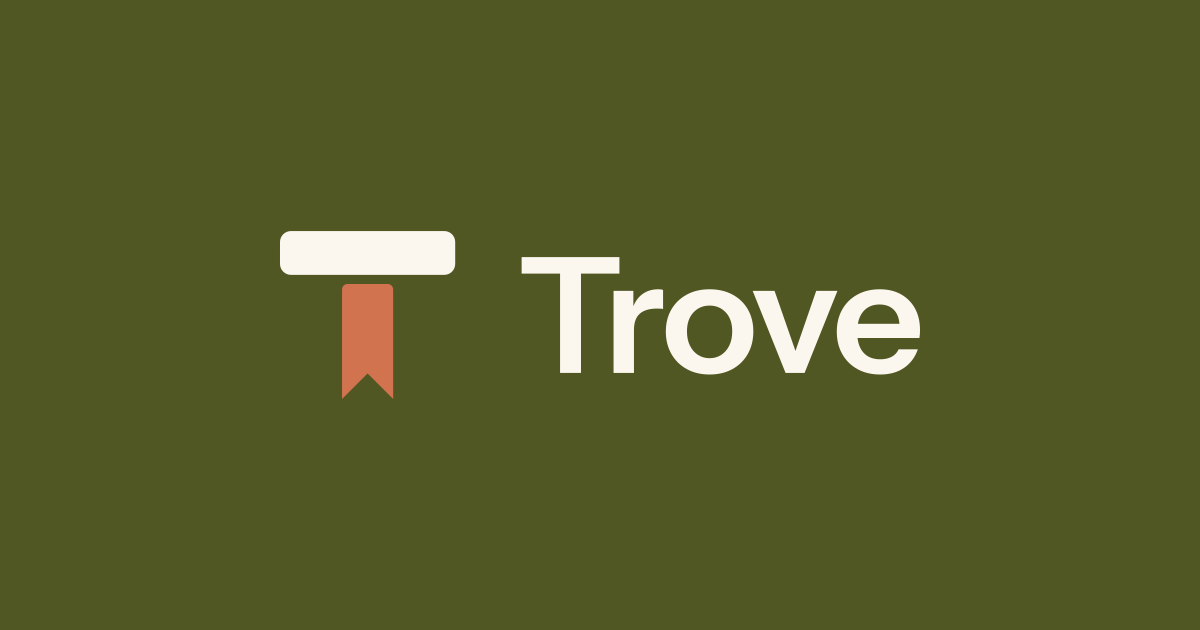
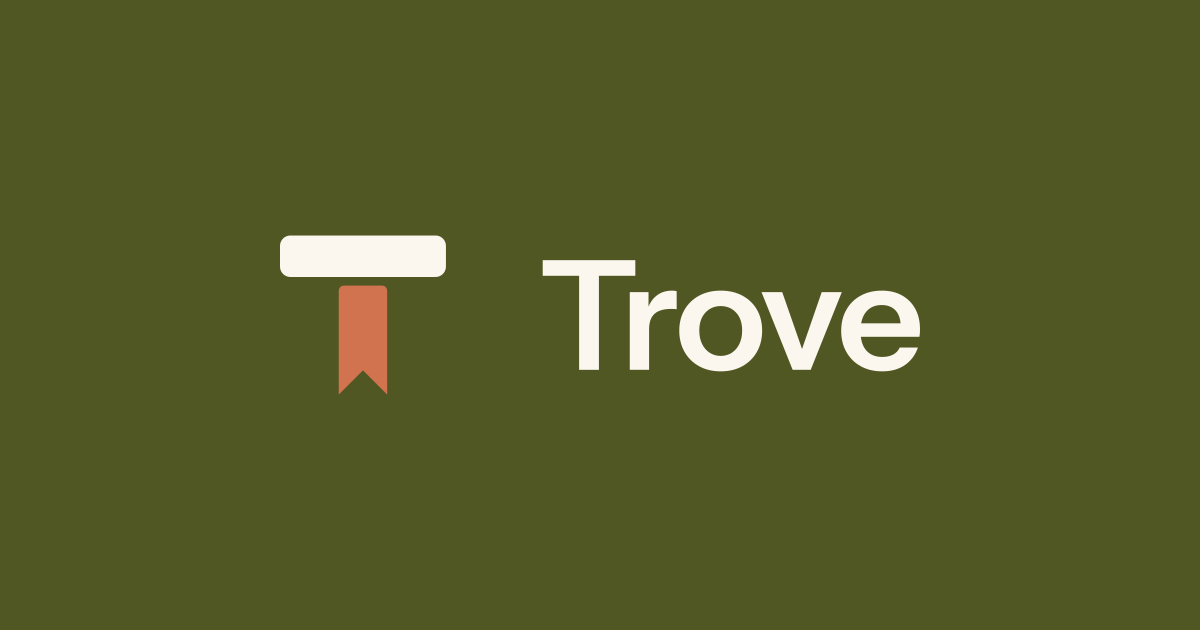
fix: layout polish

Changed region(s): [[0.4317, 0.3921, 0.7708, 0.6032], [0.2158, 0.3619, 0.4008, 0.6333]]

diff --git a/apps/web/components/home/home-front-door.tsx b/apps/web/components/home/home-front-door.tsx
@@ -3,6 +3,7 @@
 import { Plus } from 'lucide-react';
 import Link from 'next/link';
 import { useTranslations } from 'next-intl';
+import { useEffect, useState, type ReactNode } from 'react';
 
 import { Button } from '@/components/ui/button';
 import { Skeleton } from '@/components/ui/skeleton';
@@ -29,10 +30,50 @@ export const HOME_COVER_FRAME =
 /**
  * Everything beneath the cover: a sheet in the page's own colour, as wide as
  * the cover, whose rounded top edge overlaps the photograph. Its padding puts
- * the content back on the page's own measure.
+ * the content back on the page's own measure. The curve squares off as the
+ * traveller scrolls the sheet up, as the trip's navigation sheet does when it
+ * pins, and returns when they scroll back to the cover.
  */
 export const HOME_SHEET =
-  'relative z-10 mx-[calc(50%-50vw)] -mt-7 space-y-10 rounded-t-[1.75rem] bg-background px-[calc(50vw-50%)] pt-6 motion-safe:animate-in motion-safe:duration-700 motion-safe:ease-[var(--ease-standard)] motion-safe:slide-in-from-bottom-6 sm:space-y-12 md:-mt-10 md:rounded-t-[2.5rem] md:pt-10';
+  'relative z-10 mx-[calc(50%-50vw)] -mt-7 space-y-10 rounded-t-[1.75rem] bg-background px-[calc(50vw-50%)] pt-6 transition-[border-radius] duration-[var(--motion-slow)] ease-[var(--ease-standard)] data-flat:rounded-t-none motion-safe:animate-in motion-safe:duration-700 motion-safe:ease-[var(--ease-standard)] motion-safe:slide-in-from-bottom-6 motion-reduce:transition-none sm:space-y-12 md:-mt-10 md:rounded-t-[2.5rem] md:pt-10 md:data-flat:rounded-t-none';
+
+/**
+ * Whether the traveller has scrolled the sheet up into the top half of the
+ * screen. Not "until it touches the top": on a tall screen with a short Home
+ * the page ends before the sheet could get there. Read on scroll directly: one
+ * rect read per event, no frame loop to stall.
+ */
+function useRisen(element: HTMLElement | null) {
+  const [risen, setRisen] = useState(false);
+  useEffect(() => {
+    if (!element) return;
+    const update = () => setRisen(element.getBoundingClientRect().top <= window.innerHeight / 2);
+    update();
+    window.addEventListener('scroll', update, { passive: true });
+    window.addEventListener('resize', update);
+    return () => {
+      window.removeEventListener('scroll', update);
+      window.removeEventListener('resize', update);
+    };
+  }, [element]);
+  return risen;
+}
+
+export function HomeSheet({ children }: Readonly<{ children: ReactNode }>) {
+  const [element, setElement] = useState<HTMLDivElement | null>(null);
+  const flat = useRisen(element);
+
+  return (
+    <div
+      className={HOME_SHEET}
+      data-flat={flat || undefined}
+      data-slot="home-sheet"
+      ref={setElement}
+    >
+      {children}
+    </div>
+  );
+}
 
 /**
  * The page's heading, in Home's own voice and set on the cover: a quiet line

diff --git a/apps/web/components/ui/alert-dialog.tsx b/apps/web/components/ui/alert-dialog.tsx
@@ -24,7 +24,7 @@ function AlertDialogOverlay({ className, ...props }: AlertDialogPrimitive.Backdr
     <AlertDialogPrimitive.Backdrop
       data-slot="alert-dialog-overlay"
       className={cn(
-        'fixed inset-0 isolate z-[var(--layer-overlay)] bg-foreground/20 duration-[var(--motion-standard)] supports-backdrop-filter:backdrop-blur-xs data-open:animate-in data-open:fade-in-0 data-closed:animate-out data-closed:fade-out-0 dark:bg-surface-sunken/70',
+        'fixed inset-0 isolate z-[var(--layer-overlay)] bg-foreground/20 duration-[var(--motion-standard)] supports-backdrop-filter:backdrop-blur-xs data-open:animate-in data-open:fade-in-0 data-closed:animate-out data-closed:fill-mode-forwards data-closed:fade-out-0 dark:bg-surface-sunken/70',
         className,
       )}
       {...props}
@@ -46,7 +46,7 @@ function AlertDialogContent({
         data-slot="alert-dialog-content"
         data-size={size}
         className={cn(
-          'group/alert-dialog-content fixed top-1/2 left-1/2 z-[var(--layer-overlay)] grid max-h-[calc(100dvh-2rem-var(--safe-top)-var(--safe-bottom))] w-full max-w-[calc(100%-2rem-var(--safe-left)-var(--safe-right))] -translate-x-1/2 -translate-y-1/2 gap-5 overflow-y-auto rounded-[var(--radius-xl)] border border-border bg-popover p-5 text-popover-foreground shadow-[var(--shadow-overlay)] duration-[var(--motion-standard)] outline-none data-[size=default]:sm:max-w-md data-[size=sm]:sm:max-w-sm data-open:animate-in data-open:fade-in-0 data-open:zoom-in-95 data-closed:animate-out data-closed:fade-out-0 data-closed:zoom-out-95 sm:p-6',
+          'group/alert-dialog-content fixed top-1/2 left-1/2 z-[var(--layer-overlay)] grid max-h-[calc(100dvh-2rem-var(--safe-top)-var(--safe-bottom))] w-full max-w-[calc(100%-2rem-var(--safe-left)-var(--safe-right))] -translate-x-1/2 -translate-y-1/2 gap-5 overflow-y-auto rounded-[var(--radius-xl)] border border-border bg-popover p-5 text-popover-foreground shadow-[var(--shadow-overlay)] duration-[var(--motion-standard)] outline-none data-[size=default]:sm:max-w-md data-[size=sm]:sm:max-w-sm data-open:animate-in data-open:fade-in-0 data-open:zoom-in-95 data-closed:animate-out data-closed:fill-mode-forwards data-closed:fade-out-0 data-closed:zoom-out-95 sm:p-6',
           className,
         )}
         {...props}

diff --git a/apps/web/components/ui/dialog.tsx b/apps/web/components/ui/dialog.tsx
@@ -29,7 +29,7 @@ function DialogOverlay({ className, ...props }: DialogPrimitive.Backdrop.Props) 
     <DialogPrimitive.Backdrop
       data-slot="dialog-overlay"
       className={cn(
-        'fixed inset-0 isolate z-[var(--layer-overlay)] bg-foreground/20 duration-[var(--motion-standard)] supports-backdrop-filter:backdrop-blur-xs data-open:animate-in data-open:fade-in-0 data-closed:animate-out data-closed:fade-out-0 dark:bg-surface-sunken/70',
+        'fixed inset-0 isolate z-[var(--layer-overlay)] bg-foreground/20 duration-[var(--motion-standard)] supports-backdrop-filter:backdrop-blur-xs data-open:animate-in data-open:fade-in-0 data-closed:animate-out data-closed:fill-mode-forwards data-closed:fade-out-0 dark:bg-surface-sunken/70',
         className,
       )}
       {...props}
@@ -80,7 +80,7 @@ function DialogContent({
       <DialogPrimitive.Popup
         data-slot="dialog-content"
         className={cn(
-          'fixed top-1/2 left-1/2 z-[var(--layer-overlay)] grid max-h-[calc(100dvh-2rem-var(--safe-top)-var(--safe-bottom))] w-full max-w-[calc(100%-2rem-var(--safe-left)-var(--safe-right))] -translate-x-1/2 -translate-y-1/2 gap-6 overflow-y-auto rounded-[var(--radius-2xl)] border border-border-subtle bg-popover p-6 text-sm text-popover-foreground shadow-[var(--shadow-overlay)] duration-[var(--motion-standard)] outline-none sm:max-w-lg sm:p-8 data-open:animate-in data-open:fade-in-0 data-open:zoom-in-95 data-closed:animate-out data-closed:fade-out-0 data-closed:zoom-out-95',
+          'fixed top-1/2 left-1/2 z-[var(--layer-overlay)] grid max-h-[calc(100dvh-2rem-var(--safe-top)-var(--safe-bottom))] w-full max-w-[calc(100%-2rem-var(--safe-left)-var(--safe-right))] -translate-x-1/2 -translate-y-1/2 gap-6 overflow-y-auto rounded-[var(--radius-2xl)] border border-border-subtle bg-popover p-6 text-sm text-popover-foreground shadow-[var(--shadow-overlay)] duration-[var(--motion-standard)] outline-none sm:max-w-lg sm:p-8 data-open:animate-in data-open:fade-in-0 data-open:zoom-in-95 data-closed:animate-out data-closed:fill-mode-forwards data-closed:fade-out-0 data-closed:zoom-out-95',
           className,
         )}
         {...props}

diff --git a/apps/web/components/home/home-journey.tsx b/apps/web/components/home/home-journey.tsx
@@ -75,7 +75,7 @@ export function HomeJourney(props: Readonly<HomeJourneyProps>) {
     return (
       <section
         aria-labelledby={headingId}
-        className="group relative flex items-center gap-5 rounded-[var(--radius-2xl)] bg-paper p-5 transition-shadow duration-[var(--motion-standard)] ease-[var(--ease-standard)] focus-within:ring-3 focus-within:ring-ring/40 hover:shadow-[var(--shadow-card)] motion-reduce:transition-none sm:gap-7 sm:p-6"
+        className="group relative mx-[calc(50%-50vw)] flex items-center gap-5 bg-paper px-[calc(50vw-50%)] py-8 focus-within:ring-3 focus-within:ring-ring/40 focus-within:ring-inset sm:gap-7 md:py-10"
         data-slot="home-journey"
       >
         <span aria-hidden="true" className="w-24 shrink-0 sm:w-28">
@@ -97,7 +97,7 @@ export function HomeJourney(props: Readonly<HomeJourneyProps>) {
           </h2>
           {/* Stretched over the card, so the print and the name open the story too. */}
           <Link
-            className="mt-2 inline-flex items-center gap-1 text-sm font-medium text-brand outline-none after:absolute after:inset-0 after:rounded-[var(--radius-2xl)] hover:underline"
+            className="mt-2 inline-flex items-center gap-1 text-sm font-medium text-brand outline-none after:absolute after:inset-0 hover:underline"
             href={`/trips/${trip.id}/memories`}
           >
             {trip.memoryCount ? t('openStory') : homeT('addMemories')}
@@ -114,7 +114,7 @@ export function HomeJourney(props: Readonly<HomeJourneyProps>) {
   return (
     <section
       aria-labelledby={headingId}
-      className="-ms-[var(--gutter-inline-start)] -me-[var(--gutter-inline-end)] bg-paper ps-[var(--gutter-inline-start)] pe-[var(--gutter-inline-end)] py-10 md:mx-0 md:rounded-[var(--radius-2xl)] md:px-10 md:py-12"
+      className="mx-[calc(50%-50vw)] bg-paper px-[calc(50vw-50%)] py-10 md:py-14"
       data-slot={returned ? 'home-returned' : 'home-journey'}
     >
       <div className="group grid items-center gap-8 md:grid-cols-[minmax(0,1fr)_minmax(0,1fr)] md:gap-12">

diff --git a/apps/web/components/home-experience.tsx b/apps/web/components/home-experience.tsx
@@ -8,7 +8,7 @@ import { useEffect, useMemo, useState } from 'react';
 import { AiPlanningDraftCard } from '@/components/ai-planning-draft-card';
 import { HomeBeforeYouGo } from '@/components/home/home-before-you-go';
 import { HomeComingUp } from '@/components/home/home-coming-up';
-import { HOME_SHEET, HomeEmpty, HomeIdle, HomeSkeleton } from '@/components/home/home-front-door';
+import { HomeEmpty, HomeIdle, HomeSheet, HomeSkeleton } from '@/components/home/home-front-door';
 import { HomeCover } from '@/components/home/home-hero';
 import { HomeJourney } from '@/components/home/home-journey';
 import { HomeToday } from '@/components/home/home-today';
@@ -190,7 +190,7 @@ export function HomeExperience() {
     <div className="mx-auto w-full max-w-5xl">
       <HomeCover editorial={lead ? editorialFor(lead) : null} headline={headline} trip={lead} />
 
-      <div className={HOME_SHEET}>
+      <HomeSheet>
         {!lead && trips.length ? <HomeIdle onCreateTrip={openCreateTrip} /> : null}
 
         {trips.length === 0 ? (
@@ -270,7 +270,7 @@ export function HomeExperience() {
             variant="journey"
           />
         ) : null}
-      </div>
+      </HomeSheet>
     </div>
   );
 }

diff --git a/apps/web/lib/brand/identity.ts b/apps/web/lib/brand/identity.ts
@@ -75,13 +75,13 @@ const round = (value: number) => Math.round(value * 100) / 100;
 
 /**
  * The symbol stands 1.45 cap heights tall beside the wordmark, centred on its
- * capitals, 1.3 ribbon widths away. Derived rather than written out, so the
+ * capitals, 2 ribbon widths away. Derived rather than written out, so the
  * React lockup and the exports cannot disagree.
  */
 const lockupScale = (1.45 * brandWordmark.capHeight) / brandMark.live.height;
 const lockupSymbolHeight = brandMark.live.height * lockupScale;
 const lockupOverhang = (lockupSymbolHeight - brandWordmark.capHeight) / 2;
-const lockupWordmarkX = (brandMark.live.width + 1.3 * brandMark.ribbonWidth) * lockupScale;
+const lockupWordmarkX = (brandMark.live.width + 2 * brandMark.ribbonWidth) * lockupScale;
 
 export const brandLockup = {
   width: round(lockupWordmarkX + brandWordmark.width),

diff --git a/apps/web/components/home/home-hero.tsx b/apps/web/components/home/home-hero.tsx
@@ -111,7 +111,7 @@ export function HomeCover({
           {/* Above the headline's stretched link, so the weather source stays its
               own link. From `md` it sits in the header's row, beside the
               floating controls; the header lets clicks through to it. */}
-          <div className="relative z-10 self-start motion-safe:animate-in motion-safe:duration-700 motion-safe:fade-in md:absolute md:top-[calc(var(--safe-top)+(var(--header-height)-2.75rem)/2)] md:right-[calc(max(0.75rem,var(--safe-right))+6.25rem)]">
+          <div className="relative z-10 self-start motion-safe:animate-in motion-safe:duration-700 motion-safe:fade-in md:absolute md:top-[calc(var(--safe-top)+0.75rem)] md:right-[calc(max(0.75rem,var(--safe-right))+6.25rem)]">
             <HomeNowStrip tone="onMedia" />
           </div>
 

diff --git a/apps/web/components/home-now-strip.tsx b/apps/web/components/home-now-strip.tsx
@@ -94,7 +94,7 @@ export function HomeNowStripContent({
           className={cn(
             'flex min-w-0 items-center gap-2 rounded-[var(--radius-sm)] outline-none transition-colors duration-[var(--motion-standard)] ease-[var(--ease-standard)] focus-visible:ring-3 motion-reduce:transition-none',
             onMedia
-              ? 'h-10 rounded-full border border-white/20 bg-black/30 px-3.5 backdrop-blur-md hover:bg-black/40 focus-visible:ring-white/70'
+              ? 'h-11 rounded-full border border-white/20 bg-black/30 px-3.5 backdrop-blur-md hover:bg-black/40 focus-visible:ring-white/70'
               : 'hover:text-foreground focus-visible:ring-ring/40',
           )}
           href={weather.attribution.url}

diff --git a/apps/web/app/globals.css b/apps/web/app/globals.css
@@ -433,6 +433,7 @@ body {
   --muted-foreground: oklch(0.978 0.013 80 / 0.8);
   --brand: var(--primary-on-media);
   --brand-symbol-bar: var(--brand-mark-ink);
+  --brand-symbol-ribbon: var(--brand-mark-ink);
   --brand-mark-type: var(--brand-mark-ink);
   --ring: var(--media-fallback-foreground);
 }

diff --git a/apps/web/lib/brand/revision.generated.ts b/apps/web/lib/brand/revision.generated.ts
@@ -1,2 +1,2 @@
 // Generated by scripts/generate-brand-assets.mjs; do not edit.
-export const brandAssetRevision = '467c9e2baed8';
+export const brandAssetRevision = 'be29c2c82b3d';
